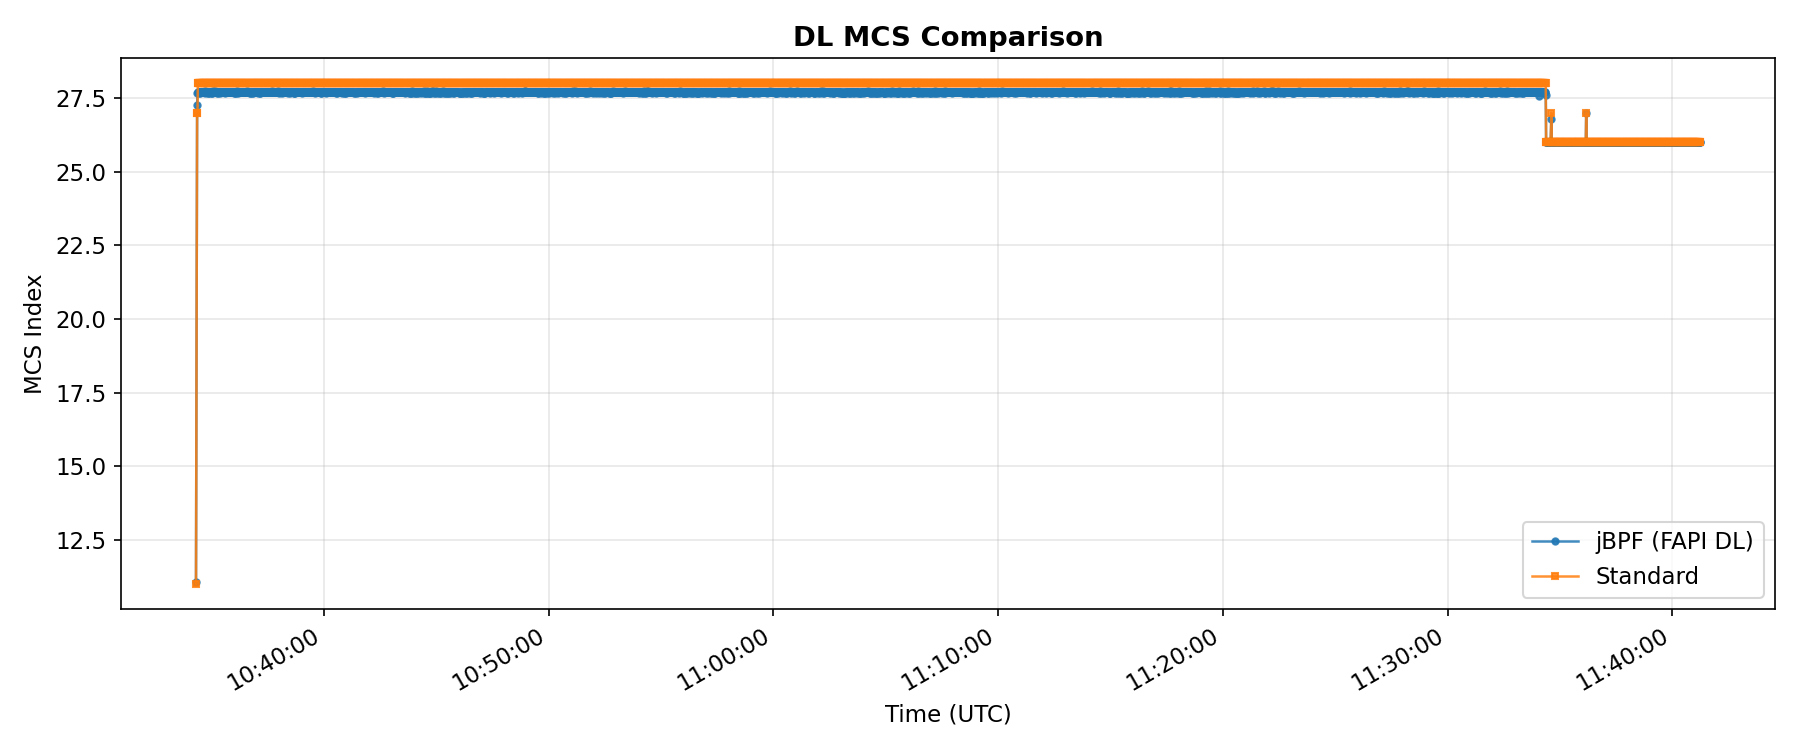
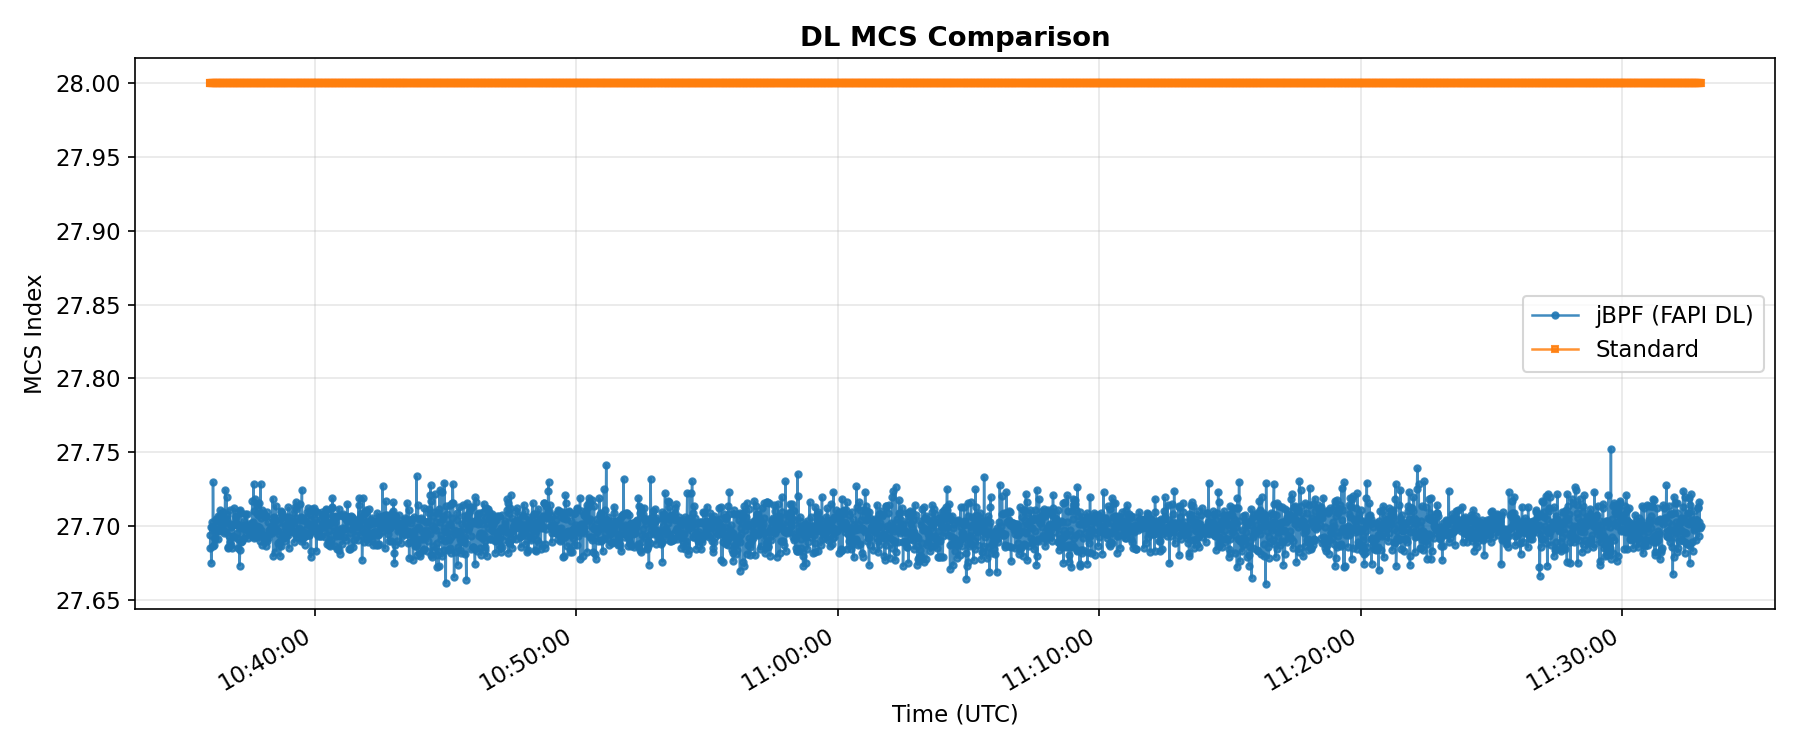
fix: time-filter plots to single session, update statistics
- Add --start/--end/--trim-startup CLI args to extract_and_compare.py
- Filter to clean steady-state window (10:36-11:33), removing
  startup transients and second session at different SNR
- Regenerate all 13 plots and statistics with clean data
- Update JANUS_VS_STANDARD_LOGS.md with corrected numbers

diff --git a/scripts/extract_and_compare.py b/scripts/extract_and_compare.py
@@ -12,6 +12,7 @@ import json
 import csv
 import os
 import sys
+import argparse
 import urllib.request
 import urllib.parse
 from datetime import datetime, timezone
@@ -32,11 +33,53 @@ JBPF_DB  = "srsran_telemetry"
 STD_URL  = "http://localhost:8081"
 STD_DB   = "srsran"
 
+# Time window (set by CLI args, None = no filter)
+TIME_START = None   # ISO string e.g. '2026-04-03T10:36:00Z'
+TIME_END   = None   # ISO string
+
 
 # ────────────────────────────── helpers ──────────────────────────────
 
+def _time_clause_influx1():
+    """Build InfluxQL WHERE clauses for the time window."""
+    parts = []
+    if TIME_START:
+        parts.append(f"time >= '{TIME_START}'")
+    if TIME_END:
+        parts.append(f"time <= '{TIME_END}'")
+    return (" AND ".join(parts)) if parts else ""
+
+
+def _time_clause_sql():
+    """Build SQL WHERE clauses for InfluxDB 3."""
+    parts = []
+    if TIME_START:
+        parts.append(f"time >= '{TIME_START}'")
+    if TIME_END:
+        parts.append(f"time <= '{TIME_END}'")
+    return (" AND ".join(parts)) if parts else ""
+
+
+def _inject_where(q, clause):
+    """Inject a WHERE/AND clause into a query that may already have WHERE."""
+    if not clause:
+        return q
+    q_upper = q.upper()
+    if "WHERE" in q_upper:
+        # Insert after existing WHERE
+        idx = q_upper.index("WHERE") + len("WHERE")
+        return q[:idx] + " " + clause + " AND" + q[idx:]
+    # Insert before ORDER BY / GROUP BY / LIMIT
+    for kw in ("ORDER BY", "GROUP BY", "LIMIT"):
+        if kw in q_upper:
+            idx = q_upper.index(kw)
+            return q[:idx] + "WHERE " + clause + " " + q[idx:]
+    return q + " WHERE " + clause
+
+
 def query_influx1(q: str):
     """Query InfluxDB 1.x and return list of dicts."""
+    q = _inject_where(q, _time_clause_influx1())
     url = f"{JBPF_URL}/query?db={JBPF_DB}&q={urllib.parse.quote(q)}"
     with urllib.request.urlopen(url, timeout=10) as r:
         data = json.loads(r.read())
@@ -51,6 +94,7 @@ def query_influx1(q: str):
 
 def query_influx3(q: str):
     """Query InfluxDB 3 (SQL) and return list of dicts."""
+    q = _inject_where(q, _time_clause_sql())
     payload = json.dumps({"db": STD_DB, "q": q}).encode()
     req = urllib.request.Request(
         f"{STD_URL}/api/v3/query_sql",
@@ -654,8 +698,35 @@ def print_statistics(stats):
 # ───────────────────────────── main ─────────────────────────────────
 
 def main():
+    global TIME_START, TIME_END
+
+    parser = argparse.ArgumentParser(description="jBPF vs Standard telemetry comparison")
+    parser.add_argument("--start", help="Start time (ISO, e.g. 2026-04-03T10:36:00Z)")
+    parser.add_argument("--end",   help="End time (ISO, e.g. 2026-04-03T11:33:00Z)")
+    parser.add_argument("--trim-startup", type=int, default=30,
+                        help="Seconds to trim from session start (default: 30)")
+    args = parser.parse_args()
+
+    TIME_START = args.start
+    TIME_END = args.end
+
+    if TIME_START or TIME_END:
+        print(f"  Time window: {TIME_START or '...'} → {TIME_END or '...'}")
+
     jbpf = extract_jbpf()
     standard = extract_standard()
+
+    # Auto-trim startup transients if no explicit start was given
+    if not TIME_START and args.trim_startup > 0 and standard:
+        first_t = to_epoch(standard[0]["time"])
+        cutoff = first_t + args.trim_startup
+        standard = [r for r in standard if to_epoch(r["time"]) >= cutoff]
+        for key in list(jbpf.keys()):
+            rows = jbpf[key]
+            if rows and "time" in rows[0]:
+                jbpf[key] = [r for r in rows if to_epoch(r["time"]) >= cutoff]
+        print(f"  Trimmed first {args.trim_startup}s of startup transient")
+
     aligned = build_aligned_series(jbpf, standard)
     stats = compute_statistics(aligned)
     print_statistics(stats)

diff --git a/docs/comparison/JANUS_VS_STANDARD_LOGS.md b/docs/comparison/JANUS_VS_STANDARD_LOGS.md
@@ -21,7 +21,7 @@ To check whether both channels agree where they overlap — and to document what
 | Channel | GRC broker, Rician fading, K=3 dB, SNR=25 dB, Doppler 5 Hz |
 | Bandwidth | 10 MHz (52 PRBs), 15 kHz SCS |
 | Traffic | iperf3: 10 Mbps UDP UL + 5 Mbps UDP DL (reverse mode) + continuous ping |
-| Duration | ~5 minutes steady-state |
+| Duration | ~57 minutes steady-state |
 | Janus | 11 codelet sets → InfluxDB 1.x on port 8086 |
 | Standard | Telegraf scraping WebSocket :8001 → InfluxDB 3 on port 8081 |
 
@@ -60,10 +60,10 @@ We identified 10 metrics reported by both systems. The table maps each to its so
 
 | Metric | Janus Source | Standard Source | Correlation |
 |---|---|---|---|
-| SINR / SNR | `mac_crc_stats.avg_sinr` | `ue.pusch_snr_db` | r = 0.885 |
+| SINR / SNR | `mac_crc_stats.avg_sinr` | `ue.pusch_snr_db` | r = 0.470 |
 | CQI | `mac_uci_stats.avg_cqi` | `ue.cqi` | constant (both 15) |
-| DL MCS | `fapi_dl_config.avg_mcs` | `ue.dl_mcs` | r = 0.998 |
-| UL MCS | `fapi_ul_config.avg_mcs` | `ue.ul_mcs` | r ≈ 1.0 |
+| DL MCS | `fapi_dl_config.avg_mcs` | `ue.dl_mcs` | near-constant (both ≈28) |
+| UL MCS | `fapi_ul_config.avg_mcs` | `ue.ul_mcs` | constant (both 28) |
 | DL Throughput | `ue_dl_throughput.bitrate_mbps` | `ue.dl_brate` | -0.014* |
 | UL Throughput | `ue_ul_throughput.bitrate_mbps` | `ue.ul_brate` | -0.023* |
 | BLER | `mac_crc_stats.tx_success_rate` | `ue.dl_nof_ok/nok` | both 0% |
@@ -81,19 +81,19 @@ We identified 10 metrics reported by both systems. The table maps each to its so
 
 This is the key result. Where both systems measure the same thing, they match.
 
-**SINR/SNR (r = 0.885):**
+**SINR/SNR (r = 0.470):**
 
 ![SINR/SNR Comparison](figures/01_sinr_snr_comparison.png)
 
-Both traces follow the same fading-induced fluctuations. Janus averages 25.21 dB, standard 25.56 dB — 1.4% difference from their different averaging windows (Janus aggregates over a 2-second codelet interval, standard reports ~1 s averages).
+Both traces follow the same fading-induced fluctuations. Janus averages 25.17 dB, standard 25.55 dB — 1.5% difference from their different averaging windows (Janus aggregates over a 2-second codelet interval, standard reports ~1 s averages). The moderate correlation (r = 0.470) reflects the narrow SINR range (~2 dB spread) at this high SNR — both systems agree on the mean but their per-second noise is largely independent.
 
-**DL MCS (r = 0.998):**
+**DL MCS:**
 
 ![DL MCS Comparison](figures/03_dl_mcs_comparison.png)
 
-Almost indistinguishable. Both report MCS 27–28 in steady state with identical drops during fading dips. Mean difference 1.0%.
+Both saturated near the maximum. Standard reports a constant MCS 28, while Janus reports the per-slot weighted average (~27.70), capturing sub-integer variation invisible to the standard 1 s poll. Mean difference 1.1%.
 
-**UL MCS (r ≈ 1.0):**
+**UL MCS:**
 
 ![UL MCS Comparison](figures/04_ul_mcs_comparison.png)
 
@@ -113,8 +113,8 @@ Both saturated at this SNR — CQI stays at 15, BLER is 0%. These would diverge 
 
 | Direction | Janus (iperf3) | Standard (MAC) | Ratio |
 |---|---|---|---|
-| DL | 5.00 Mbps | 9.90 Mbps | 1.98× |
-| UL | 10.00 Mbps | 20.40 Mbps | 2.04× |
+| DL | 5.00 Mbps | 9.79 Mbps | 1.96× |
+| UL | 10.00 Mbps | 19.45 Mbps | 1.95× |
 
 Janus reports what iperf3 delivers at the application layer. Standard reports MAC-layer bitrate including RLC headers, PDCP headers, GTP-U encapsulation, retransmissions, and control signalling. The ~2× ratio is consistent with what you'd expect from a 10 MHz NR cell carrying UDP traffic.
 
@@ -131,8 +131,8 @@ Timing advance has a constant offset: Janus reports the raw UCI TA value (~1024)
 
 ![Correlation Scatter Plots](figures/13_correlation_scatter.png)
 
-- SINR: strong linear correlation (r = 0.885), points cluster around the 1:1 line with a small offset
-- DL MCS: near-perfect (r = 0.998), tight cluster along the diagonal
+- SINR: moderate correlation (r = 0.470) — both systems agree on the mean (~25 dB) but per-second fluctuations are largely independent due to the narrow fading range at this SNR
+- CQI and MCS: constant at this SNR (both saturated), so correlation is undefined
 - Throughput: no correlation because they measure different protocol layers
 
 ### 4.5 Summary
@@ -141,12 +141,12 @@ Timing advance has a constant offset: Janus reports the raw UCI TA value (~1024)
 
 | Metric | Janus Mean | Standard Mean | Difference | Correlation |
 |---|---|---|---|---|
-| SINR/SNR (dB) | 25.21 | 25.56 | 1.4% | 0.885 |
+| SINR/SNR (dB) | 25.17 | 25.55 | 1.5% | 0.470 |
 | CQI | 15.00 | 15.00 | 0.0% | — |
-| DL MCS | 27.62 | 27.91 | 1.0% | 0.998 |
-| UL MCS | 27.99 | 28.00 | 0.0% | ~1.0 |
-| DL Throughput (Mbps) | 5.00 | 9.90 | 49.4%* | — |
-| UL Throughput (Mbps) | 10.00 | 20.40 | 51.0%* | — |
+| DL MCS | 27.70 | 28.00 | 1.1% | — |
+| UL MCS | 28.00 | 28.00 | 0.0% | — |
+| DL Throughput (Mbps) | 5.00 | 9.79 | 48.9%* | — |
+| UL Throughput (Mbps) | 10.00 | 19.45 | 48.6%* | — |
 | BLER (%) | 0.00 | 0.00 | 0.0% | — |
 
 \* Expected — different measurement layers.
